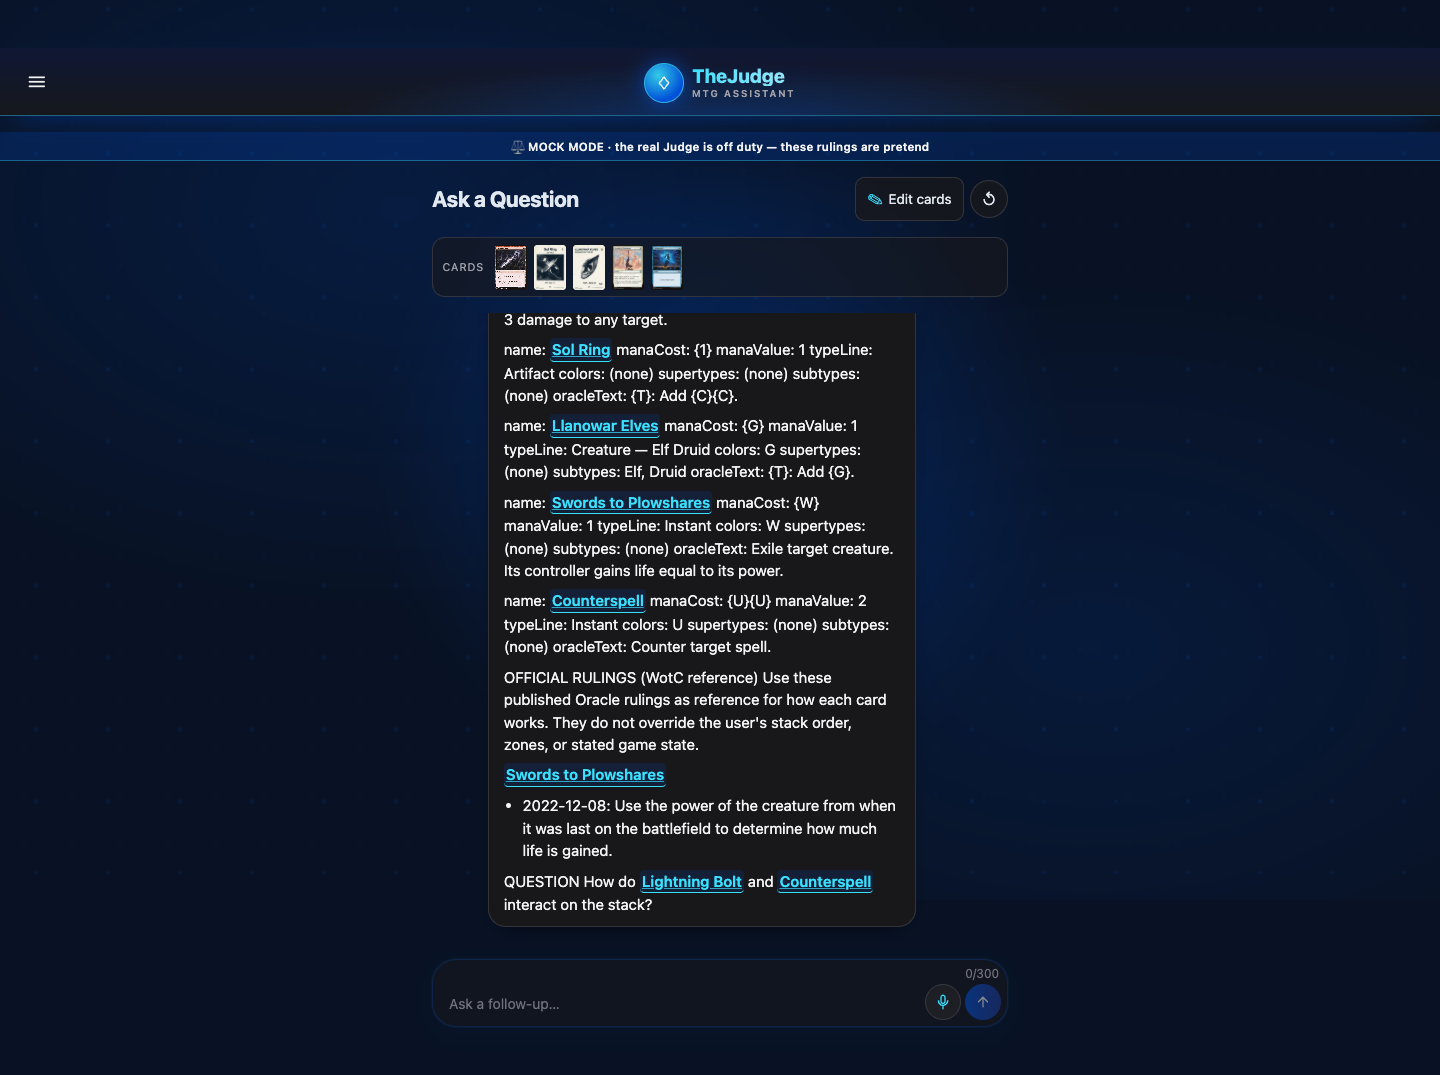
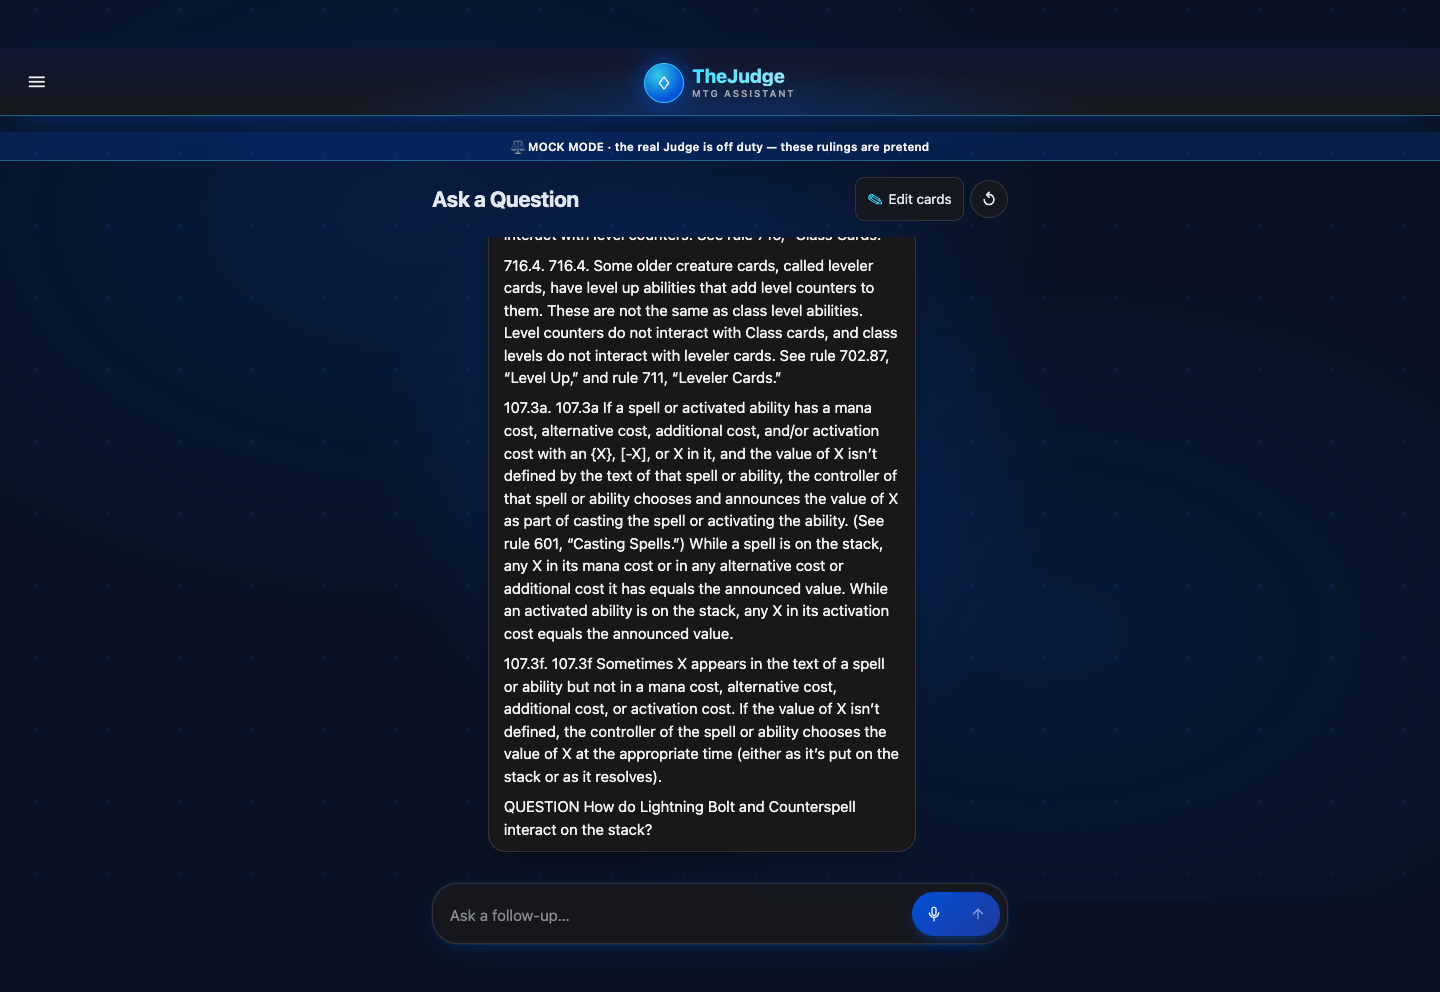
fix(ui-reimagining-build): review 1 — slice M follow-up composer reuses the split pill
Finding 4 (Important, M9): the follow-up box still showed a "0/300" count
line above two separate round mic/send circles, instead of the composer's
split mic|send pill. FollowUpComposer.tsx now renders ComposerPill directly
(the same component the main composer uses) instead of its own hand-rolled
markup; submitLabel/pendingLabel are both "Send" so the accessible name never
changes while sending, and disabled={!text.trim()} reproduces the existing
blank-submission guard. Tests updated to match (count hidden at zero chars,
no <form> wrapper) — no behaviour change.

Changed region(s): [[0.0, 0.0625, 1.0, 0.875], [0.625, 0.875, 0.7188, 0.9688], [0.3125, 0.9062, 0.4062, 0.9688]]

diff --git a/apps/frontend/src/components/FollowUpComposer.tsx b/apps/frontend/src/components/FollowUpComposer.tsx
@@ -1,7 +1,5 @@
-import { useState, type FormEvent } from "react";
-import { DictationMicButton } from "./DictationMicButton";
-import { useDictation } from "../hooks/useDictation";
-import { SendIcon } from "./ComposerSubmitButton";
+import { useState } from "react";
+import { ComposerPill } from "./ComposerPill";
 
 const MAX_QUESTION_CHARS = 300;
 
@@ -10,67 +8,41 @@ type FollowUpComposerProps = {
   onSubmit: (text: string) => Promise<void>;
 };
 
+/**
+ * Look-matching pass (slice M, review 1 fix — finding 4): the follow-up box reuses
+ * `ComposerPill`, the same split mic/send pill and 300-character budget ring the
+ * main composer uses (`flow.css:187-274`), instead of its own hand-rolled row with
+ * two separate round mic/send circles and a "0/300" count line stacked above them
+ * (LOOK-GAPS.md's Ask a Question section, "Follow-up box": "The mockup uses the
+ * same split pill as the composer"). Behaviour is unchanged: the field's
+ * accessible name stays "Follow-up question", the send control's stays "Send", a
+ * blank submission is still blocked, the field still clears on send, and dictation
+ * still stops before submit (`ComposerPill`'s own `handleSubmit` already does
+ * this). `pendingLabel` repeats `submitLabel` so the send control's accessible
+ * name never changes while sending, matching this composer's existing contract.
+ */
 export function FollowUpComposer({ isSubmitting, onSubmit }: FollowUpComposerProps): JSX.Element {
   const [text, setText] = useState("");
-  const dictation = useDictation({ value: text, onChange: setText, maxLength: MAX_QUESTION_CHARS });
 
-  async function handleSubmit(event: FormEvent<HTMLFormElement>): Promise<void> {
-    event.preventDefault();
-    if (dictation.isListening) dictation.stop();
+  function handleSubmit(): void {
     const trimmedText = text.trim();
     if (!trimmedText) return;
     setText("");
-    await onSubmit(trimmedText);
+    void onSubmit(trimmedText);
   }
 
   return (
-    <div className="space-y-1">
-      <form
-        onSubmit={(event) => void handleSubmit(event)}
-        data-accent-current={false}
-        className="ambient-accent-surface ambient-accent-interactive flex items-end gap-2 rounded-3xl border border-zinc-700/70 bg-zinc-900/55 py-1.5 pl-4 pr-1.5"
-      >
-        <label className="flex min-w-0 flex-1 items-center">
-          <span className="sr-only">Follow-up question</span>
-          <textarea
-            aria-label="Follow-up question"
-            placeholder={dictation.isListening ? "Listening…" : "Ask a follow-up…"}
-            value={text}
-            onChange={(event) => setText(event.target.value.slice(0, MAX_QUESTION_CHARS))}
-            rows={1}
-            maxLength={MAX_QUESTION_CHARS}
-            disabled={isSubmitting}
-            className="min-w-0 flex-1 resize-none bg-transparent py-1.5 text-sm text-zinc-100 placeholder:text-zinc-500 focus:outline-none disabled:opacity-60"
-          />
-        </label>
-        <div className="flex shrink-0 flex-col items-end gap-0.5">
-          <span className="pr-0.5 text-xs text-zinc-500">
-            {text.length}/{MAX_QUESTION_CHARS}
-          </span>
-          <div className="flex shrink-0 items-center gap-1">
-            {dictation.isSupported && (
-              <DictationMicButton
-                isListening={dictation.isListening}
-                onToggle={dictation.toggle}
-                sizeClassName="h-9 w-9"
-              />
-            )}
-            <button
-              type="submit"
-              aria-label="Send"
-              disabled={isSubmitting || !text.trim()}
-              className="flex h-9 w-9 shrink-0 items-center justify-center rounded-full bg-gradient-to-r from-accent to-accent-strong text-accent-contrast transition hover:opacity-90 disabled:cursor-not-allowed disabled:opacity-50"
-            >
-              {isSubmitting ? <span className="send-spinner" /> : <SendIcon />}
-            </button>
-          </div>
-        </div>
-      </form>
-      {dictation.error && (
-        <p role="alert" className="px-4 text-[10px] leading-tight text-rose-400">
-          {dictation.error}
-        </p>
-      )}
-    </div>
+    <ComposerPill
+      value={text}
+      onChange={setText}
+      onSubmit={handleSubmit}
+      maxLength={MAX_QUESTION_CHARS}
+      placeholder="Ask a follow-up…"
+      textareaAriaLabel="Follow-up question"
+      submitLabel="Send"
+      pendingLabel="Send"
+      isSubmitting={isSubmitting}
+      disabled={!text.trim()}
+    />
   );
 }

diff --git a/apps/frontend/src/components/FollowUpComposer.test.tsx b/apps/frontend/src/components/FollowUpComposer.test.tsx
@@ -12,15 +12,15 @@ afterEach(cleanup);
 
 describe("Frontend - Conversation composer", () => {
   describe("FollowUpComposer", () => {
-    it("renders as a rounded pill with a visually-hidden accessible label", () => {
+    it("renders as the shared composer pill with a visually-hidden accessible label", () => {
       render(<FollowUpComposer isSubmitting={false} onSubmit={vi.fn(async () => undefined)} />);
 
-      const composer = screen.getByRole("textbox", { name: "Follow-up question" });
-      // REQ-212: the right side now stacks a character count above the send (and, where
-      // supported, mic) controls, matching ComposerPill's own shape — the pill is no
-      // longer a single flat row, but keeps the same rounded family.
-      expect(composer.closest("form")?.className).toContain("rounded-3xl");
-      expect(screen.getByText("Follow-up question")).toHaveClass("sr-only");
+      // Look-matching pass (slice M, review 1 fix — finding 4): the follow-up box is
+      // now `ComposerPill` itself (`.q-box`, `flow.css:187-216`), the same split
+      // mic/send pill the main composer uses — no separate `<form>` wrapper of its
+      // own any more.
+      expect(screen.getByTestId("composer-pill")).toBeInTheDocument();
+      expect(screen.getByRole("textbox", { name: "Follow-up question" })).toBeInTheDocument();
     });
 
     it("renders a circular icon send control instead of a text label", () => {
@@ -29,7 +29,6 @@ describe("Frontend - Conversation composer", () => {
       const sendButton = screen.getByRole("button", { name: "Send" });
       expect(sendButton).not.toHaveTextContent("Send");
       expect(sendButton.querySelector("svg")).toBeInTheDocument();
-      expect(sendButton.className).toContain("rounded-full");
     });
 
     it("blocks blank submission and submits trimmed text, clearing the input", async () => {
@@ -59,9 +58,12 @@ describe("Frontend - Conversation composer", () => {
       expect(composer).toHaveValue("a".repeat(300));
       expect(screen.getByText("300/300")).toBeInTheDocument();
 
-      // The count tracks the raw editable value, so clearing returns it to zero.
+      // Look-matching pass (slice M, review 1 fix — finding 4): `ComposerPill` only
+      // shows the count badge once there is something to count (REQ-206's
+      // content-sized composer — an empty box carries no "0/300"), so clearing the
+      // field hides the badge instead of showing "0/300".
       await user.clear(composer);
-      expect(screen.getByText("0/300")).toBeInTheDocument();
+      expect(screen.queryByText(/\/300/)).not.toBeInTheDocument();
       await user.type(composer, "abc");
       expect(screen.getByText("3/300")).toBeInTheDocument();
     });

diff --git a/apps/frontend/src/components/ConversationWorkspace.test.tsx b/apps/frontend/src/components/ConversationWorkspace.test.tsx
@@ -48,8 +48,11 @@ describe("Frontend - Conversation workspace", () => {
     expect(within(workspace).getByText("Provider unavailable")).toBeInTheDocument();
     expect(within(workspace).getByText("Ready for follow-ups")).toBeInTheDocument();
 
+    // Look-matching pass (slice M, review 1 fix — finding 4): the follow-up box is
+    // `ComposerPill` itself now (`.q-box`), not a `<form>` of its own — assert it
+    // sits inside that shared pill shell instead of checking a `<form>`'s class.
     const composer = within(workspace).getByRole("textbox", { name: "Follow-up question" });
-    expect(composer.closest("form")).not.toHaveClass("fixed");
+    expect(composer.closest('[data-testid="composer-pill"]')).toBeInTheDocument();
     await user.type(composer, "What happens next?");
     await user.click(within(workspace).getByRole("button", { name: "Send" }));
     expect(onFollowUp).toHaveBeenCalledWith("What happens next?");

diff --git a/PRD/work/ui-reimagining-build/slice-m.evidence.md b/PRD/work/ui-reimagining-build/slice-m.evidence.md
@@ -168,3 +168,37 @@ this pass; those were identified by their `2026-10-02` timestamp and deleted
 afterward, restoring
 `cd /Users/chrismiho/Coding/Projects/TheJudge && git status --porcelain` to
 its one pre-existing line (`M scripts/lib/boundary-rules.mjs`).
+
+### Review 1 fix (2026-10-02)
+
+Review loop 1 (`REVIEW-1.md`) returned finding 4 (Important, M9): after an
+answer, the follow-up box still had a "0/300" count line above two separate
+round mic/send circles, instead of the composer's own split mic|send pill.
+`FollowUpComposer.tsx` was rewritten to render `ComposerPill` directly — the
+same component the main composer uses — instead of its own hand-rolled
+markup; `onAddInDepthDetails` is omitted (no deep-pill segment on the
+follow-up box), `submitLabel`/`pendingLabel` are both `"Send"` so the send
+control's accessible name never changes while sending (unchanged
+behaviour), and `disabled={!text.trim()}` reproduces the existing
+blank-submission guard (`ComposerPill` itself does not gate on empty text).
+The character count now only appears once there is something to count,
+matching `ComposerPill`'s own already-accepted behaviour elsewhere
+(`QuickLookupApp.test.tsx`'s "at 0 characters the ring's count is hidden
+entirely" contract) — `FollowUpComposer.test.tsx`'s old "0/300" assertion
+was updated to assert the badge is absent at zero, not a regression.
+`ConversationWorkspace.test.tsx`'s one `composer.closest("form")` assertion
+(there is no longer a `<form>`, just `ComposerPill`'s `.q-box`) was updated
+to check the composer sits inside `[data-testid="composer-pill"]` instead.
+No behaviour changed: dictation stop-before-submit, trim-before-send, and
+the field clearing on send all still hold (`ComposerPill`'s own
+`handleSubmit` already does the dictation stop).
+
+Verified live: the answered-state follow-up box now shows the split
+mic/send pill with the gradient fill and no separate count line, at both
+390×844 and 1440×900 (recaptured
+`m/ask-question-answered-build-{390x844,1440x900}.png`).
+
+Finding closed. `npm --workspace apps/frontend run test` green, including
+`FollowUpComposer.test.tsx`, `ComposerPill.test.tsx`,
+`ConversationWorkspace.test.tsx`, `App.answered-state.test.tsx`,
+`App.ui-flare-chat-motion.test.tsx`, `QuickLookupApp.test.tsx`.
